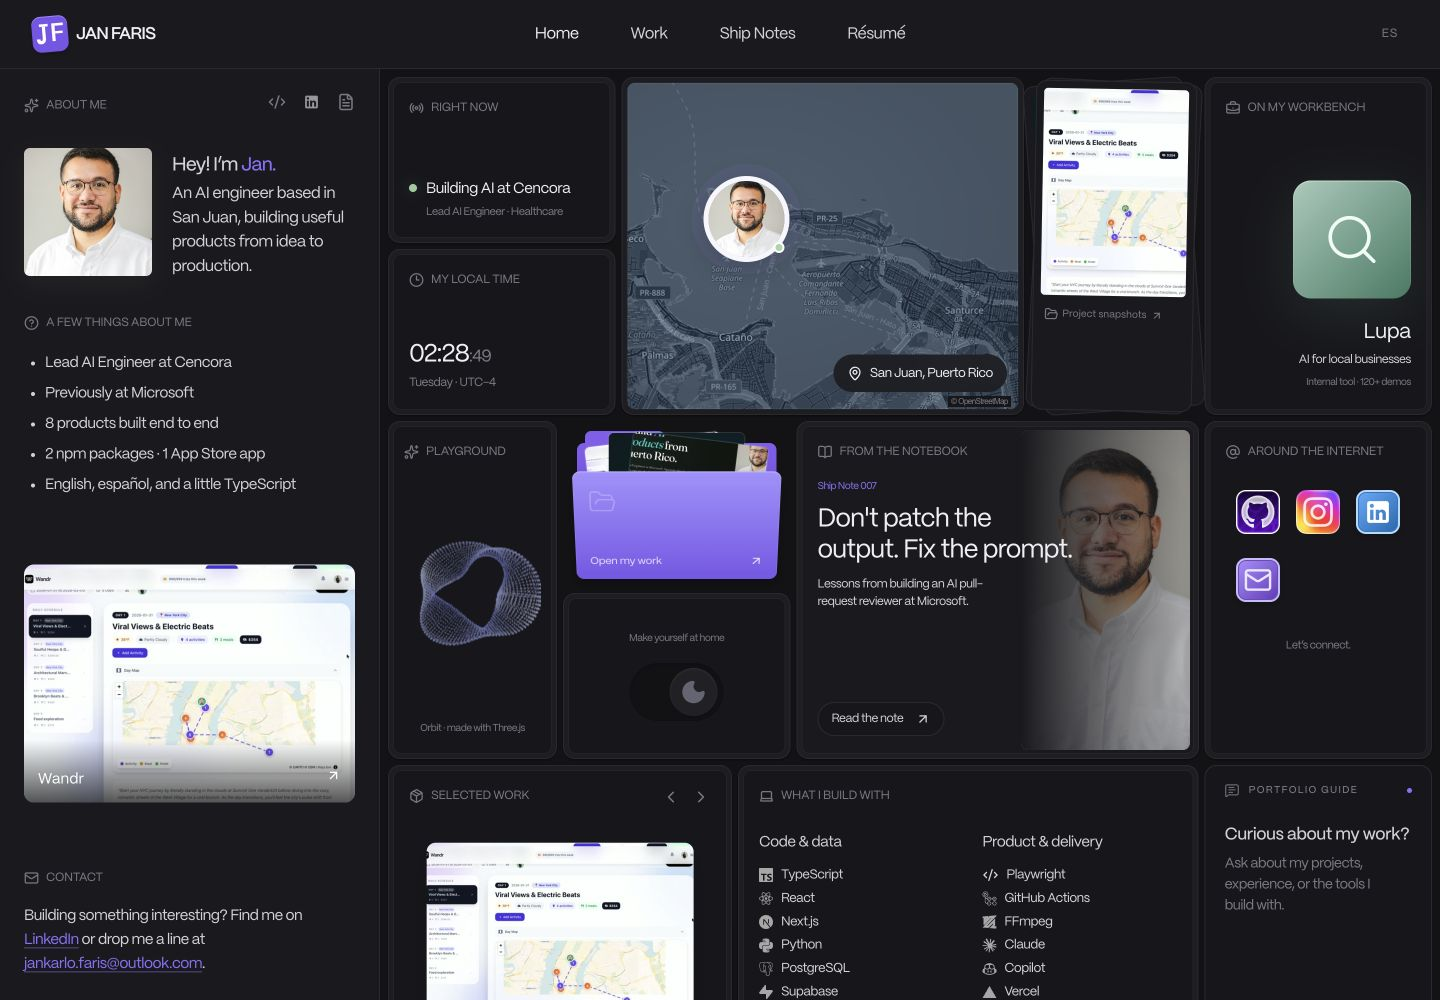
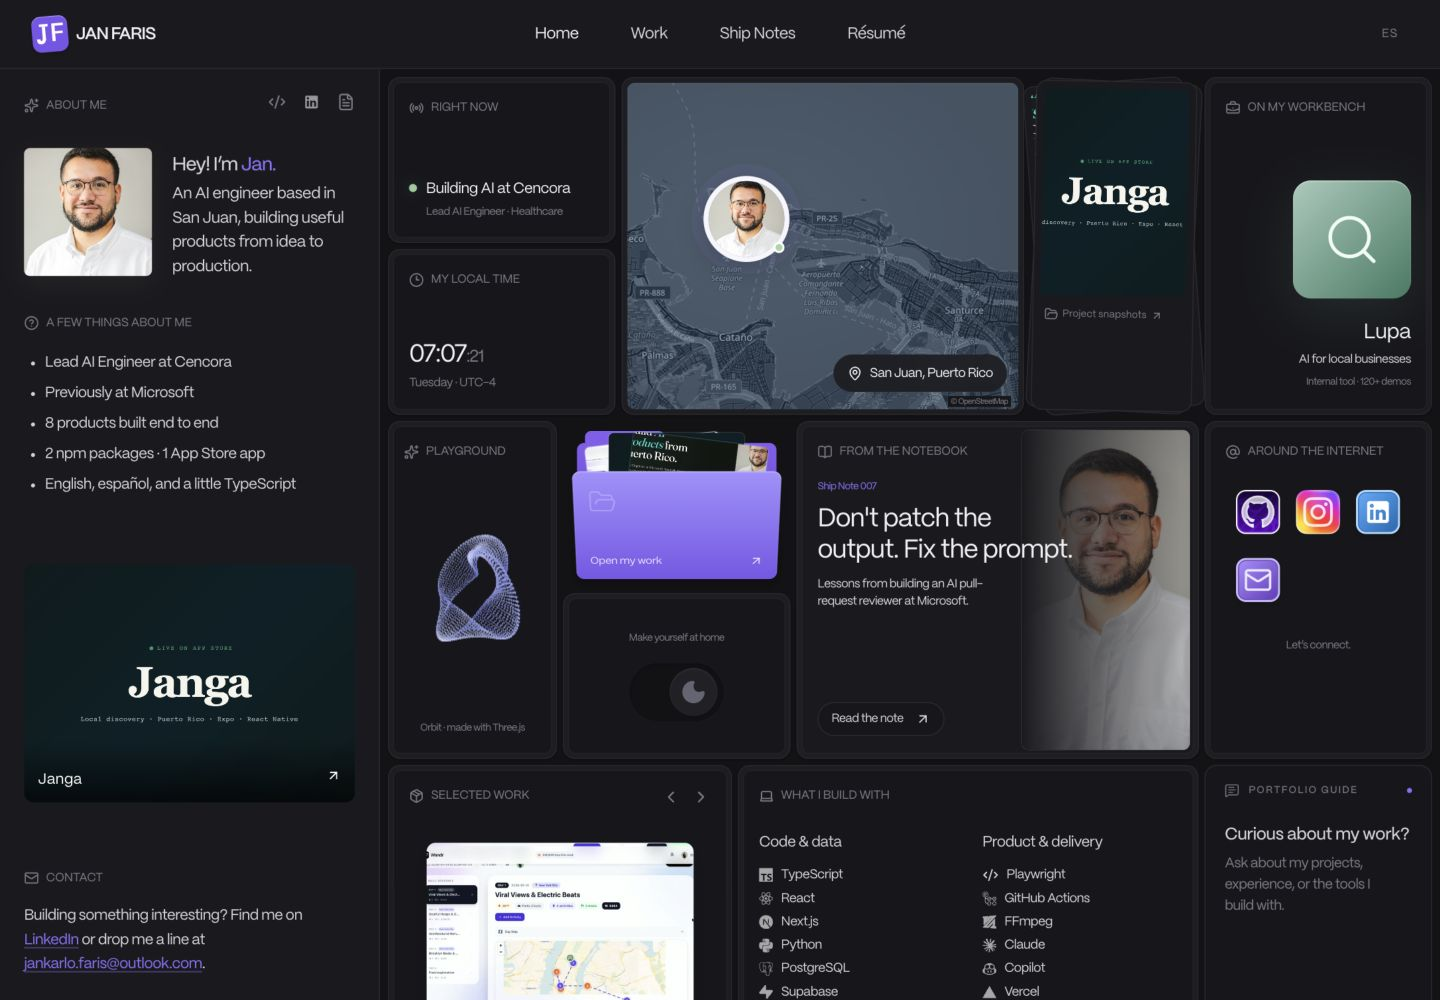
Keep the dashboard viewport stable on reload

diff --git a/src/Dashboard.css b/src/Dashboard.css
@@ -3,7 +3,7 @@
 @font-face { font-family: 'Desk Mori'; src: url('/dashboard/fonts/mori-semibold.woff2') format('woff2'); font-weight: 600 900; font-display: swap; }
 body.dashboard-route { background: #131316; overflow: hidden; }
 body.dashboard-route::before { display: none; }
-.desk-shell { --desk-bg: #131316; --desk-panel: #17171b; --desk-profile: #1a1a1e; --desk-text: #d2d2d7; --desk-muted: #797983; --desk-border: #29292f; --desk-inner: #242429; --desk-accent: #8b70fb; --desk-strong: #efeff3; --desk-bubble: #252529; --desk-shadow: #0a0a0c; background: var(--desk-bg); color: var(--desk-text); font-family: 'Desk Mori', Arial, sans-serif; font-weight: 400; font-size: 15px; line-height: 1.5; letter-spacing: -.035em; height: 100dvh; display: flex; flex-direction: column; overflow: hidden; }
+.desk-shell { --desk-bg: #131316; --desk-panel: #17171b; --desk-profile: #1a1a1e; --desk-text: #d2d2d7; --desk-muted: #797983; --desk-border: #29292f; --desk-inner: #242429; --desk-accent: #8b70fb; --desk-strong: #efeff3; --desk-bubble: #252529; --desk-shadow: #0a0a0c; background: var(--desk-bg); color: var(--desk-text); font-family: 'Desk Mori', Arial, sans-serif; font-weight: 400; font-size: 15px; line-height: 1.5; letter-spacing: -.035em; height: 100dvh; position: fixed; inset: 0; display: flex; flex-direction: column; overflow: hidden; }
 .desk-shell[data-theme='light'] { --desk-bg: #fafbfc; --desk-panel: #fff; --desk-profile: #fff; --desk-text: #474b56; --desk-muted: #9699a1; --desk-border: #e4e5e9; --desk-inner: #f0f0f3; --desk-accent: #7554e2; --desk-strong: #30343f; --desk-bubble: #f2f2f5; --desk-shadow: #c2c3d128; }
 .desk-shell *, .desk-shell *::before, .desk-shell *::after { box-sizing: border-box; }
 .desk-shell :where(button, input, textarea) { font: inherit; }
@@ -234,7 +234,7 @@ body.dashboard-route::before { display: none; }
 
 @media (max-width: 980px) {
   body.dashboard-route { overflow-y: auto; }
-  .desk-shell { height: auto; min-height: 100dvh; overflow: clip; }
+  .desk-shell { position: relative; inset: auto; height: auto; min-height: 100dvh; overflow: clip; }
   .desk-layout { display: block; }
   .desk-header { padding: 0 20px; }
   .desk-header > nav { gap: 26px; }

diff --git a/design-qa.md b/design-qa.md
@@ -29,6 +29,8 @@ First pass: blocked for the following P2 issues.
 4. Mobile navigation allowed focus behind the overlay. Background is now inert, focus cycles through menu controls, Escape closes it, focus returns to the opener, and resizing beyond the mobile breakpoint closes the overlay.
 5. Mobile profile spacing started lower than the reference. Aligned profile padding, icon line boxes, and portrait margin. Final paired mobile captures show matching top-section rhythm.
 
+6. During handoff, browser scroll restoration could offset the entire desktop shell after a viewport change/reload. Anchored the desktop shell to the viewport while retaining normal mobile document flow. Verified the header stays at y=0 after a scrolled reload.
+
 Final pass: no outstanding P0/P1/P2 issues for this local adaptation.
 
 ## Required fidelity surfaces
